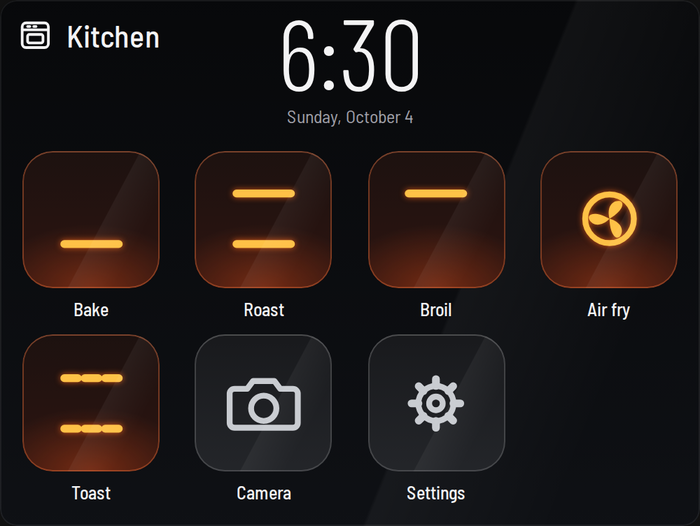
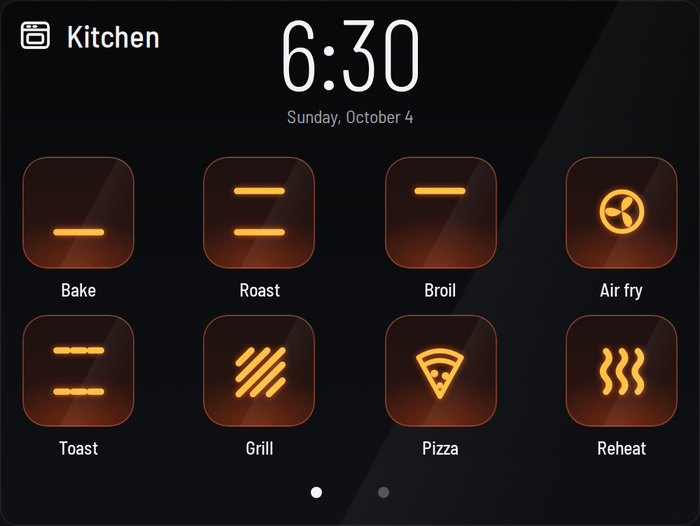
Card guide: update for card 0.5.12
Re-shot the guide on card 0.5.12 and added what changed since 0.4.9:
the History tile and sheet (with Export as CSV or JSON), page 2 and the
glide back to page 1, all 11 startable modes and their review screens
(Toast level, Reheat timer, Grill heat, Pizza), the food probe picker
and Stop at target, and the wall graph's axes.

Claude-Session: https://claude.ai/code/session_01WwCH73fbN4NbpcaAJZKq51

diff --git a/docs/card-guide/README.md b/docs/card-guide/README.md
@@ -1,19 +1,20 @@
 # July Oven card guide
 
 A walkthrough of the **July Oven** dashboard card, with pictures of every screen. It shows
-card 0.4.9. For the full option list, see
+card 0.5.12. For the full option list, see
 [July Oven dashboard card](../../README.md#july-oven-dashboard-card) in the main README.
 
 The pictures come from the card's test page (`tests/card/index.html`), using a mock oven. The
 camera picture of a tray of cookies is an illustration.
 
-<p align="center"><img src="img/home.png" width="640" alt="The July Oven card's home screen: the Kitchen oven's icon and name, the time 6:30, and tiles for Bake, Roast, Broil, Air fry, Toast, Camera and Settings."></p>
+<p align="center"><img src="img/home.png" width="640" alt="The July Oven card's home screen: the Kitchen oven's icon and name, the time 6:30, and the first page of mode tiles: Bake, Roast, Broil, Air fry, Toast, Grill, Pizza and Reheat."></p>
 
 - [Set up](#set-up)
 - [Home screen](#home-screen)
 - [Start a cook](#start-a-cook)
 - [While it cooks](#while-it-cooks)
 - [Camera](#camera)
+- [History](#history)
 - [Several ovens](#several-ovens)
 - [Settings](#settings)
 - [Sizes and looks](#sizes-and-looks)
@@ -50,15 +51,27 @@ icon: kitchen            # optional
 
 ## Home screen
 
-When the oven is off, the card shows the oven's own home screen: a clock and the cook modes, laid
-out like the tiles on the oven's touchscreen.
+When the oven is off, the card shows the oven's own home screen: a clock and pages of cook modes,
+laid out and drawn like the tiles on the oven's touchscreen.
 
 - **The oven's icon is its lamp:** orange while the oven heats, white while it's off. Tap it for
   the oven menu.
 - **Clock:** 12 or 24 hour follows your language, or set it in Settings.
-- **Cook mode tiles:** the glow lines show which heating elements each mode uses: bottom for
-  Bake, top for Broil, both for Roast, a fan for Air fry.
-- **Camera** opens the camera window inside the card. **Settings** opens the card's settings.
+- **Cook mode tiles** are drawn the way the oven draws them: the glow lines show the heating
+  elements (bottom for Bake, top for Broil, both for Roast), a fan for Air fry, waves for Reheat.
+- **More pages:** swipe, or tap a dot. Page 2 holds Proof, Keep warm, Dehydrate, and the
+  **Camera**, **History** and **Settings** tiles.
+
+<table>
+<tr>
+<td width="50%"><img src="img/home-p2.png" alt="Page 2 of the home screen: Proof, Keep warm, Dehydrate, Camera, History and Settings."></td>
+<td width="50%"><img src="img/pages.gif" alt="Animation: tapping the second dot slides to page 2; after a while with no touch, the tiles glide back to page 1."></td>
+</tr>
+<tr>
+<td><b>Page 2.</b> The last three modes, then Camera, History and Settings.</td>
+<td><b>Back to page 1 on its own.</b> Left alone for 45 seconds on a later page, the home screen glides back to the first one. Any touch stops it. (The wait is cut short here.)</td>
+</tr>
+</table>
 
 <table>
 <tr>
@@ -76,15 +89,16 @@ out like the tiles on the oven's touchscreen.
 Tiles answer the pointer: a tile's glow fades in on hover, and the Air fry fan spins up, then
 eases to a stop when you move away.
 
-The card can start **Bake, Roast, Broil, Air fry and Toast**. Other June modes (Reheat, Proof,
-Dehydrate, Slow cook, Keep warm and more) still show by name when you start them on the oven or in
-the June app. Set **Cook modes** to **Most used first** in Settings to reorder the tiles by how
+The card can start **Bake, Roast, Broil, Air fry, Toast, Grill, Pizza, Reheat, Proof, Keep warm
+and Dehydrate**. Slow cook still shows by name when you start it on the oven or in the June app.
+Set **Cook modes** to **Most used first** in Settings to reorder the tiles by how
 often you start each mode from the card.
 
 ## Start a cook
 
 Nothing heats on one tap. Every mode opens a review first, and the oven only starts when you press
-**Start preheating**.
+**Start preheating**. Every review has the same layout: the mode's tile on the left, one large
+control in the middle with − and +, and a slider or a single line under it.
 
 <p align="center"><img src="img/review.gif" width="640" alt="Animation: tapping Bake opens the review at 350 °F; the slider is dragged to 425, then the number is tapped and 400 typed in; Start preheating is pressed and the card switches to Preheating, with the temperature climbing."></p>
 
@@ -93,6 +107,16 @@ Nothing heats on one tap. Every mode opens a review first, and the oven only sta
 - Make sure the oven is empty and the door is closed. The card reminds you every time.
 - The review closes itself after 5 minutes if you don't start, as the oven safety standard
   (UL 1026) asks. **Not now**, × or Escape closes it without changing anything.
+
+| Toast | Reheat |
+| --- | --- |
+| <img src="img/review-toast.png" alt="Toast review: level 5 with − and +, and a slider from 1 Light to 9 Dark."> | <img src="img/review-reheat.png" alt="Reheat review: a timer of 1 hr 0 min, a slider from 1 minute to 10 hours, and Reheats at 350 °F."> |
+| A level from 1 (light) to 9 (dark) instead of a temperature. | A timer from 1 minute to 10 hours. Tap the hours or minutes to type them. |
+
+| Grill | Pizza |
+| --- | --- |
+| <img src="img/review-grill.png" alt="Grill review: Low, Medium and High, with High picked, and Grills at 450 °F."> | <img src="img/review-pizza.png" alt="Pizza review: 500 °F and The oven sets this temperature."> |
+| Low, Medium or High, like the oven's own screen. | Runs at the temperature the oven sets. Proof and Dehydrate have their own temperature ranges. |
 
 ## While it cooks
 
@@ -118,7 +142,7 @@ can read the card from across the kitchen.
 | Done | Offline |
 | --- | --- |
 | <img src="img/dismiss.gif" alt="Animation: the Done screen says Take food out with a green bar; tapping Food is out returns the card to the home screen."> | <img src="img/offline.png" alt="Offline: last reading 401 degrees, greyed, with a dashed bar, last seen 3 minutes ago while cooking."> |
-| **Take food out** shows for 30 minutes after the cook ends. **Food is out** clears it. | Home Assistant has lost touch with the oven. The last reading stays, greyed, with how long ago it was seen. |
+| **Take food out** shows for 30 minutes after the cook ends (on a wall tablet the graph stays up too). **Food is out** clears it, and the cook is saved in the [history](#history). | Home Assistant has lost touch with the oven. The last reading stays, greyed, with how long ago it was seen. |
 
 ## Camera
 
@@ -136,6 +160,33 @@ opens over the card. × or Escape closes it.
 - With the oven on the Project July local server, opening the window while the oven is off wakes
   its camera, and it stays on while the window is open. Through June's cloud the camera only runs
   while the oven heats, and the window says **Camera off**.
+
+## History
+
+The integration records each cook when it ends, in Home Assistant, so it survives restarts and
+every browser sees the same list. The **History** tile shows them, newest first, with each cook's
+picture, target, time and result.
+
+<p align="center"><img src="img/history.gif" width="560" alt="Animation: on page 2, tapping History opens the list of past cooks; tapping the Roast cook opens its picture, temperature graph and details; Back returns to the list; Export… shows its two choices and Cancel closes them."></p>
+
+<table>
+<tr>
+<td width="33%"><img src="img/history.png" alt="History list for Kitchen, 6 cooks: Roast, Air fry, Bake, Toast (stopped), Proof and Broil, each with time, length and result."></td>
+<td width="33%"><img src="img/history-detail.png" alt="One cook: Roast, today at 4:55 PM, its camera picture, a graph of oven and food temperature over 52 minutes with the 375° target, and the result Finished."></td>
+<td width="33%"><img src="img/history-export.png" alt="History list scrolled to the bottom after tapping Export…: buttons Cancel, Spreadsheet (CSV) and Everything (JSON), with a note on what each file holds."></td>
+</tr>
+</table>
+
+- Tap a cook for its last camera picture, its whole temperature curve (oven, and food from the June
+  probe or the thermometer chosen under **Settings › Food probe**) and its details: result, time,
+  length, target, hottest reading, preheat time and food temperature.
+- **Export…** at the bottom of the list saves the history as a file: **Spreadsheet (CSV)** has one
+  row per cook, **Everything (JSON)** has every cook in full with its temperature curve (°C, seconds
+  from the start). Pictures stay in **Media › june_oven**.
+- A single cook, or the whole history, can be deleted there. The integration keeps the newest 200
+  cooks per oven; recording and pictures can each be turned off in the integration's options (see
+  [Cook history](../../README.md#cook-history)).
+- Each finished cook fires a `june_oven_cook_finished` event, for a cook log or a notification.
 
 ## Several ovens
 
@@ -177,14 +228,22 @@ tablet and your phone can each look the way you like. Your YAML is the starting 
 <td width="50%"><img src="img/settings-layout.png" alt="Settings scrolled to Mode layout: Columns 4 and Rows 2, both automatic, over a small picture of the home screen, then the Card size slider at 100%."></td>
 </tr>
 <tr>
-<td width="50%"><img src="img/layout.gif" alt="Animation: in Settings, Columns goes from 4 to 7 and Rows from 2 to 1, Mode icon size is set to Fill, and closing Settings shows all seven tiles in one row under the clock."></td>
+<td width="50%"><img src="img/layout.gif" alt="Animation: on page 2, Settings opens; Columns goes from 4 to 7, Mode icon size is set to Fill, and closing Settings shows all fourteen tiles on one page."></td>
 <td width="50%"><img src="img/icons.gif" alt="Animation: Settings scrolls to Oven icons, where the bread and then the star icon are picked for Kitchen; closing Settings shows the star next to the oven's name."></td>
 </tr>
 <tr>
-<td><b>Mode layout.</b> Seven columns, one row and Fill icons put every mode in a single row. Modes that don't fit the grid go on more pages.</td>
+<td><b>Mode layout.</b> Seven columns and Fill icons fit all 14 tiles on one page. Modes that don't fit the grid go on more pages.</td>
 <td><b>Oven icons.</b> One row per oven. Pick one of 12 icons or type any <code>mdi:</code> icon. The card's version is at the bottom.</td>
 </tr>
 </table>
+
+<p align="center"><img src="img/settings-probe.png" width="480" alt="Settings scrolled to Food probe, set to Combustion Probe Core Temperature, then Food target 145 with Stop at target and Show only."></p>
+
+**Food probe:** pick any Home Assistant temperature sensor to use instead of the June probe, such as
+a [Combustion](https://github.com/legrego/homeassistant-combustion) probe's Core Temperature
+(listed first). **Food target** sets its target; with **Stop at target** the card turns the oven
+off when the food reaches it. The oven can't read that thermometer, so a card has to be open for
+the stop to happen.
 
 | Setting | Choices | YAML key |
 | --- | --- | --- |
@@ -196,6 +255,8 @@ tablet and your phone can each look the way you like. Your YAML is the starting 
 | Card size | 80–150%: text, buttons and spacing | `scale` |
 | Mode icon size | Small, Medium, Large (default) or Fill | `icon_size` |
 | Clock | Automatic, 12-hour or 24-hour | `clock` |
+| Food probe | The June probe, or any temperature sensor, per oven | `probe` |
+| Food target | The other thermometer's target, and Stop at target or Show only | `food_target`, `food_auto_stop` |
 | Oven icons | 12 built-in icons or any `mdi:` icon, per oven | `icon` |
 | Oven in Home Assistant | Opens the oven's device page | none |
 
@@ -209,8 +270,12 @@ fills the window. Set `display_mode` to choose one yourself.
 
 **Wall tablet:** bigger type and more space, made to be read from across the room. Under the
 camera, a graph shows the oven temperature and, with the probe in, the food temperature for this
-cook (up to the last hour), with the target as a dashed line. It reads Home Assistant's history,
-so it needs the recorder; tap it for the full history.
+cook (up to the last hour), with the target as a dashed line. Degrees run up the left with the
+target in bold, and minutes since the start along the bottom. It stays up on the Done screen until
+the food is out. It reads Home Assistant's history, so it needs the recorder; tap it for the full
+history.
+
+<p align="center"><img src="img/wall-probe.png" alt="Wall tablet during a probe cook: food at 131 degrees, target 145, Roast at 350 °F, with oven and food lines on the graph."></p>
 
 **Compact, one row:**
 
@@ -245,6 +310,9 @@ takes longer than a third of a second to finish loading the dashboard after a re
 - *Close the oven door*, then try again.
 - *There is food or a probe in the oven.* Take it out before preheating.
 - *The oven is cleaning*, or *isn't ready yet*. Try again in a moment.
+
+**Stop at target didn't turn the oven off.** The oven can't read another thermometer, so the card
+does the stopping. It only works while a card showing that oven is open in a browser.
 
 **The camera says Camera off.** The oven only sends pictures while it heats, unless it runs the
 Project July local server, which can wake the camera when you open the window. If the oven is
